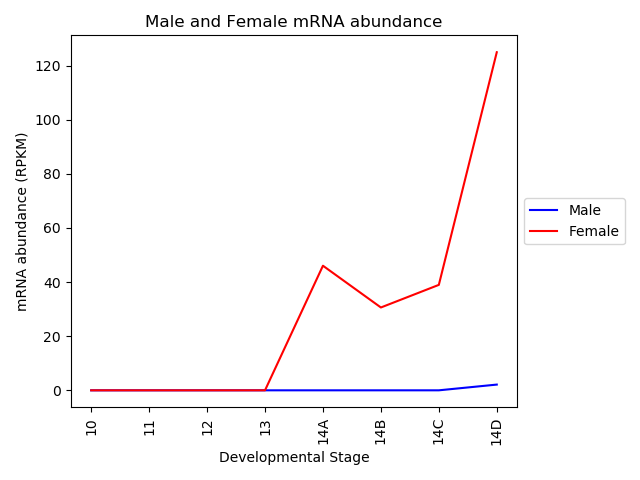
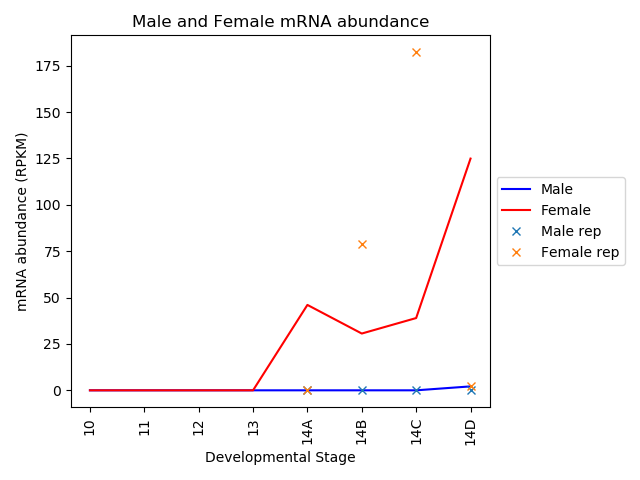
ex

diff --git a/day4-homework/02-timecourse.py b/day4-homework/02-timecourse.py
@@ -3,44 +3,66 @@
 """"
 Create a time course of a given transript of females 
 
-Usage: ./02-timecourse.py <t_names aka transcript id> <samples.csv> <FPKMs>
+Usage: ./02-timecourse.py <samples.csv> <FPKMs> <replicates> <ctab_dir> <
+
+./02-timecourse.py FBtr0331261 ~/qbb2019/data/samples.csv all.csv ~/qbb2019/data/replicates.csv ~/qbb2019-answers/results/stringtie
+
 """
 import sys 
 import pandas as pd 
 import matplotlib.pyplot as plt 
 import numpy as np
+import os
 
 #Specify transcript of interest 
 t_name=sys.argv[1]
-
-#Load metadata 
 samples=pd.read_csv(sys.argv[2]) #load in the meta data 
+fpkm_file=sys.argv[3]
+replicates=sys.argv[4]
+ctab_data_dir=sys.argv[5]
 
 def sort_sex(sex):
-    soi = samples.loc[:,"sex"] == sex #filter for the samples of interest to only be for females 
-
-    stages = samples.loc[soi, "stage"] #taking out the rows that are true and the samples 
-
-    # print(srr_ids) #will print with the rownames
-
-    #Load FPKMs 
+    soi = samples.loc[:,"sex"] == sex
+    stages = samples.loc[soi, "stage"]
     fpkms = pd.read_csv(sys.argv[3], index_col="t_name")
-
     my_data = []
-    #Extract data 
     for stage in stages:
-        # print(srr_id) #will only print the strings 
-        my_data.append(fpkms.loc[t_name ,sex+stage]) #extract info from tname with corresponding srr_id and add it to a list, my data
+        my_data.append(fpkms.loc[t_name ,sex+stage])
     return my_data
+
+def get_replicate_fpkm_data(ctab_data_dir,metadata_file,sex_):
+    fpkm = [ ]
+    for i, line in enumerate(open(metadata_file)):
+        if i == 0:
+            continue
+        fields = line.split(",")
+        srr_id = fields[0]
+        sex = fields[1]
+        if sex != sex_:
+            continue
+        stage = fields[2]
+        ctab_path = os.path.join(ctab_data_dir, srr_id, 
+                                "t_data.ctab")
+        df = pd.read_csv(ctab_path, sep="\t", 
+                                  index_col="t_name")
+        fpkm.append(df.loc["FBtr0331261","FPKM"])
+    return fpkm
+
+male_rep_data = get_replicate_fpkm_data(sys.argv[5],sys.argv[4],"male")
+female_rep_data = get_replicate_fpkm_data(sys.argv[5],sys.argv[4],"female")
 
 male_data = sort_sex('male')
 female_data = sort_sex('female')
-labelz=['Male', 'Female']
+labelz=['Male', 'Female',"Male rep","Female rep"]
 labelzz=['10', '11', '12', '13', '14A', '14B', '14C', '14D']
 
 fig, ax = plt.subplots()
 ax.plot(male_data, color='blue')
 ax.plot(female_data, color='red')
+
+ax.plot(range(4,8),male_rep_data,'x')
+ax.plot(range(4,8),female_rep_data,'x')
+
 plt.xlabel("Developmental Stage")
 plt.ylabel("mRNA abundance (RPKM)")
 plt.legend(labels= labelz, loc = 'center left', bbox_to_anchor=(1, 0.5))
